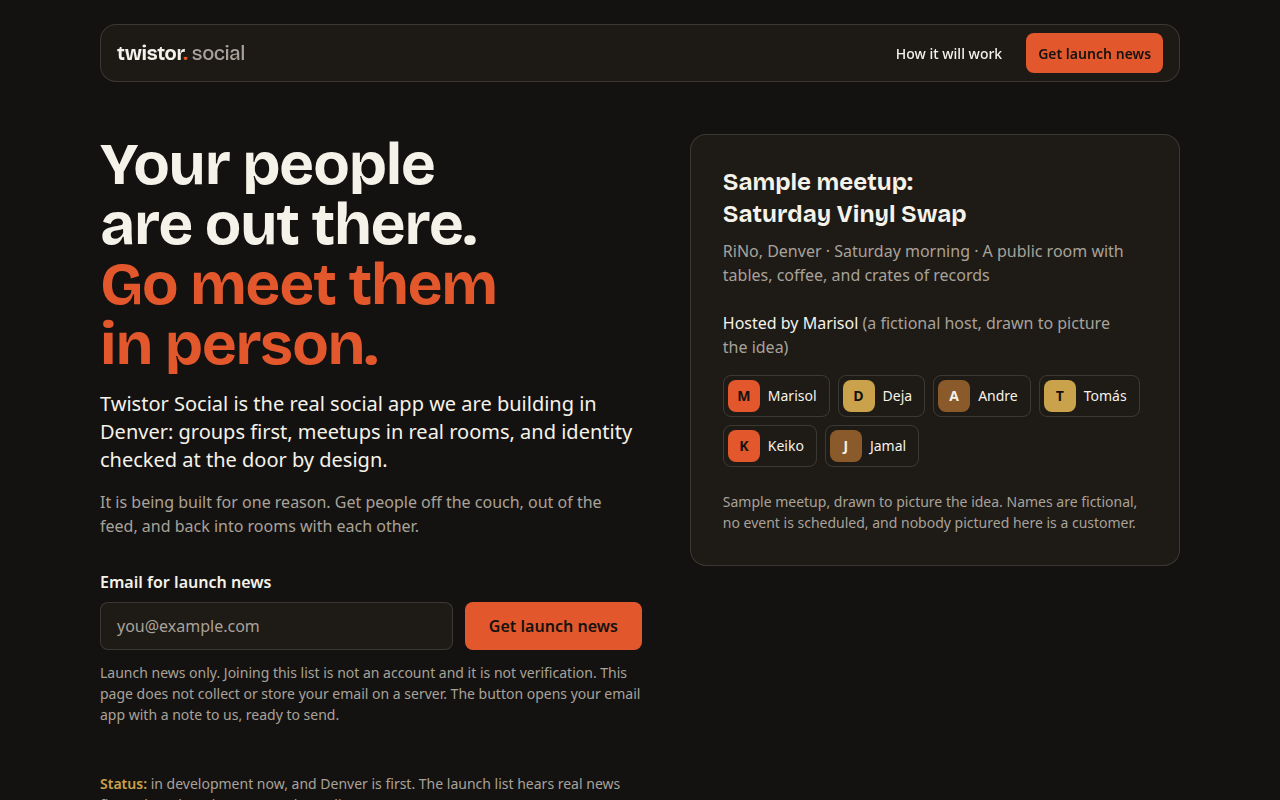
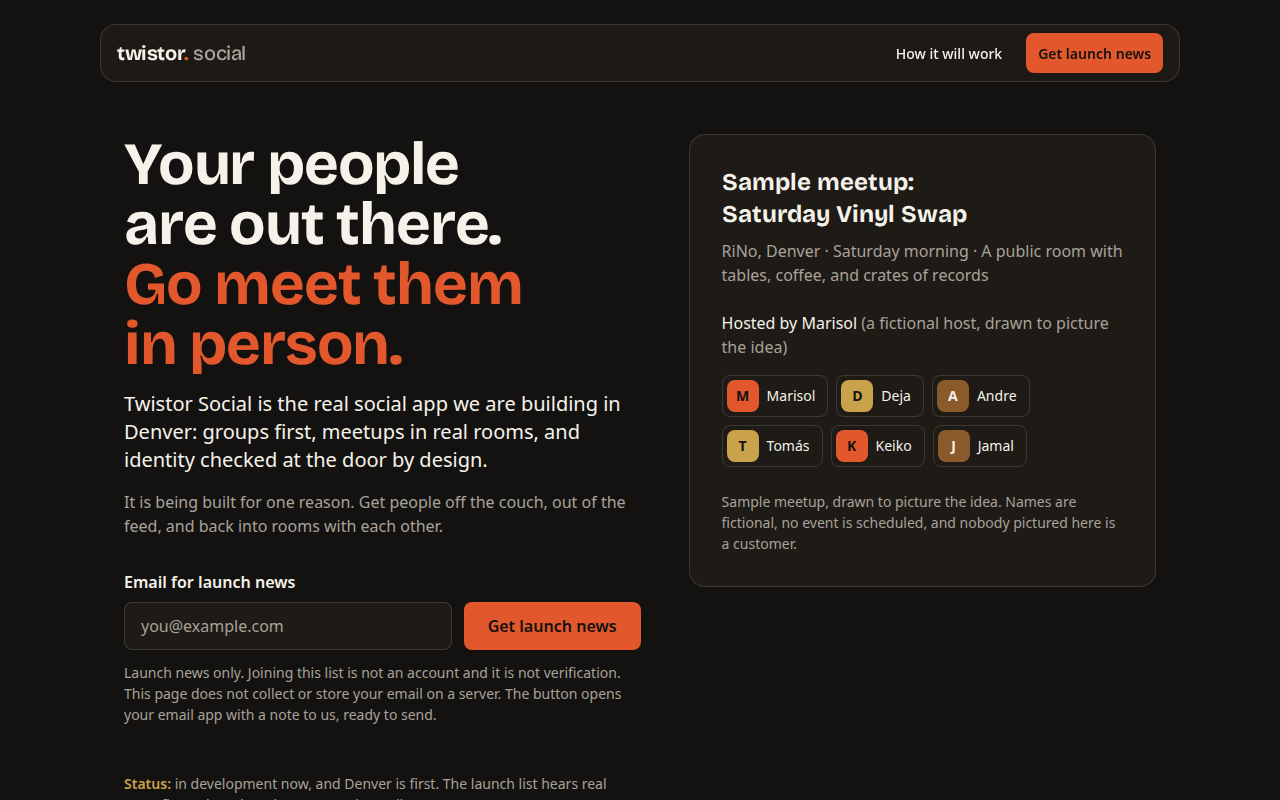
TW-737 fix round: nav CTA fit + shell gutter at 390px (Rosa M1/M2), twitter card summary (N1), explicit email-input checks (N2); contracts 63/63, fresh 390px proof

diff --git a/docs/evidence/TW-737-social-landing.tdd.md b/docs/evidence/TW-737-social-landing.tdd.md
@@ -209,9 +209,10 @@ described by notes and status, visible focus ring on links, buttons,
 inputs, and summaries, all contrast pairs AA per the table above,
 48px touch targets, keyboard reachable FAQ details elements, reduced
 motion path verified in the tall mobile screenshot (forced reduced
-motion, all reveal content fully visible), screenshots inspected at
-390px and 1280px with no overlap, no horizontal scroll, no wrapped
-wordmark after the nav fix.
+motion, all reveal content fully visible). An earlier draft of this
+section also claimed the 390px shots were clean; Rosa's review showed
+they were not (nav CTA clipped, section gutter lost). That claim is
+withdrawn; the corrected 390px proof is in the fix round below.
 
 ## Screenshots
 
@@ -235,3 +236,87 @@ Rendered from the built `dist/` served locally, headless Chromium.
 4. **Deploy word** for the website, separate from the merge word.
 5. Optional later ticket: a real waitlist backend, if mailto capture
    is ever outgrown. Nothing in this page depends on it.
+
+## Fix round (Rosa review: REQUEST CHANGES, 0 blockers, 2 majors, 2 nits)
+
+Rosa verified the build herself and found two real layout defects at
+390px, both visible in the original mobile screenshots. Both are
+fixed here, plus both nits. No Python files were authored or edited
+in this round, so the ruff gate has no files to run on; the edited
+JavaScript test file passes `node --check`.
+
+**M1, nav CTA clipped at 390px.** The flex row (wordmark, "How it
+will work" link, "Get launch news" CTA, all `white-space: nowrap`)
+was wider than the nav box, so the CTA rendered as "Get launch".
+Fix: the how link carries a `nav-how` class and is `display: none`
+below 48rem (its section is one scroll away); it returns at 48rem
+and up, where Rosa confirmed the row fits. My re-render probe at
+390px: CTA right edge 353px in a 390px viewport (nav box edge is
+366px), and `getComputedStyle` on the how link reports `none`.
+
+**M2, shell gutter overridden.** `.shell` sets `padding: 0 24px`, but
+the equal-specificity `.hero`, `.tagline-reveal`, and `section.block`
+shorthands come later in the file and zeroed the horizontal value,
+so mobile section text ran flush to the screen edges. Fix: the 24px
+horizontal value is restored in those shorthands at every breakpoint
+(base 48px/64px verticals, the 48rem hero and block overrides, and
+the 64rem tagline override). The 390px probe reads the h1 left edge
+at exactly 24px, and both re-shot mobile screenshots show every
+section inside the gutter.
+
+**N1, twitter card type.** `twitter:card` is now `summary`, matching
+the logo mark og:image that exists today. A `summary_large_image`
+card returns only when a real large card asset is produced; that is
+go-live asset work, noted here rather than claimed.
+
+**N2, email-input contract check.** The old single expression
+(`A && B || C && D`) did not enforce the label requirement when its
+right clause passed. It is replaced by four explicit checks: label
+element with a `for` target, email input exists, required attribute
+present on that input, and the input `id` matching the label target.
+
+**Receipts (fix round):**
+
+```
+$ node --check tests/tw737-social-page.test.cjs        (clean)
+$ node tests/tw737-social-page.test.cjs
+tw737-social-page: 63 passed, 0 failed   (exit 0)
+```
+
+52 original checks, minus the one mush expression, plus its 4
+explicit replacements, plus 8 new fix-round checks (card type, how
+link hidden below 48rem, how link restored at 48rem, gutter kept on
+hero, tagline, and block sections at base, 48rem, and 64rem rules).
+
+```
+$ npm run build
+Astryx scope guard: OK, marketing routes Astryx-free, boundary intact.
+[build] 12 page(s) built, /social/index.html generated.   exit 0
+
+$ npx impeccable detect dist/social/index.html
+(no findings)   exit 0
+
+$ npm test        (repo overlays suites)   exit 0
+```
+
+`check_spec` re-run on the same spec recorded above (palette
+mofongo, the six hexes, the seven contrast pairs; spec inputs
+reconstructed from this document, no spec file was committed with
+the original build): **PASSES: True**, exactly one warning, the
+kept-on-purpose typeface call from precedence item 1. Zero
+em-dashes in the page source and in the built HTML, both grepped
+after this round's edits.
+
+**Re-shot screenshots** (same shapes as the originals, rendered from
+the rebuilt `dist/` served locally, headless Chromium):
+`mobile-hero.png` (390 by 844) and `mobile-tall.png` (390 by 3400,
+reduced motion forced) now show the full CTA inside the nav and the
+24px gutter on every section. The two desktop shots (1280 by 800,
+1280 by 900) were also re-shot from the same build, since the gutter
+restoration applies at the 48rem and 64rem breakpoints too; the
+desktop nav keeps the how link, as the probe's companion render
+confirms visually.
+
+Status after this round: ready for Rosa spot-verification. Not
+merged, not pushed, not deployed, no DNS touched; the go-live steps
+above are unchanged and remain Justynn's separate words.
